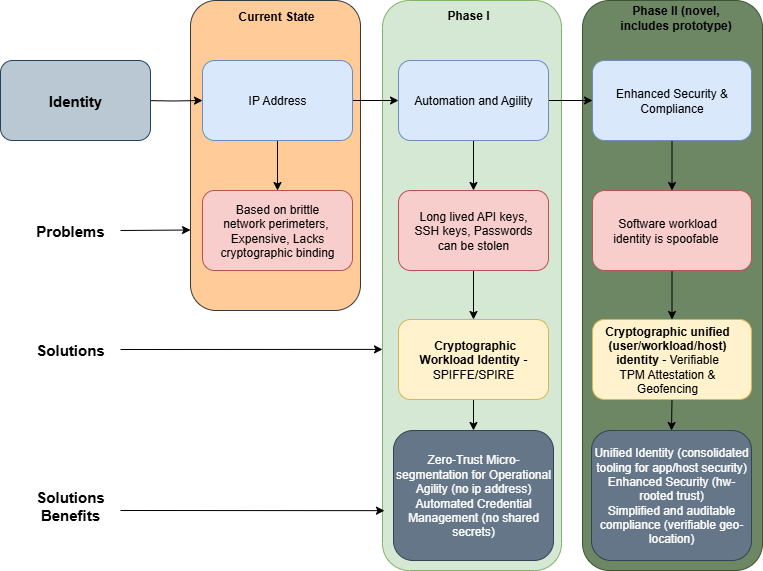
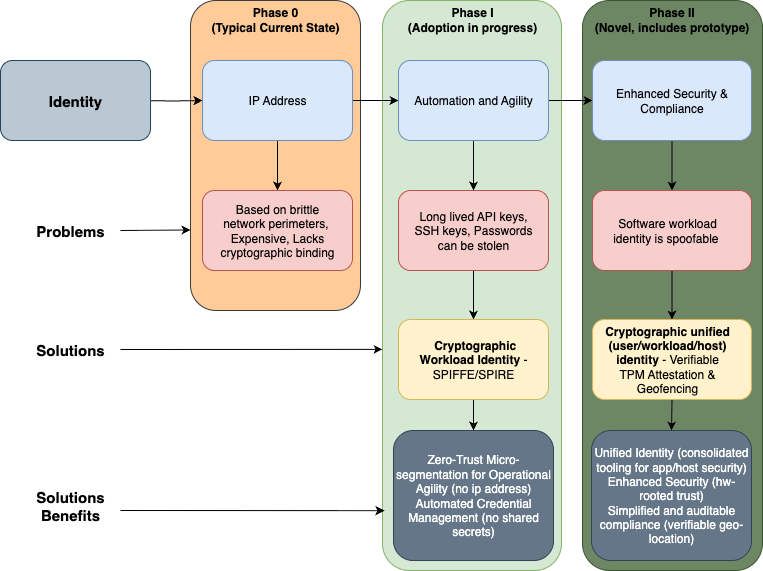
Added proper phases in solution image

diff --git a/blog.md b/blog.md
@@ -6,12 +6,12 @@ For **DevSecOps** (Development, Security, and Operations) practitioners navigati
 
 It's time for a paradigm shift. The answer lies in moving beyond static secrets and network boundaries to verifiable, hardware-rooted identity. This post outlines a modern, two-phase journey to achieve a truly sovereign and automated Zero Trust posture, leveraging open-source technologies and concepts pioneered right here at the Linux Foundation.
 
+## Phased Approach to Sovereign Zero Trust
 <figure>
   <img src="https://github.com/lfedgeai/AegisEdgeAI/raw/main/zero-trust/images/AegisEdgeAI-concept.png" alt="Phased Approach to Sovereign Zero Trust" width="800">
-  <figcaption><em>Phased Approach to Sovereign Zero Trust</em></figcaption>
 </figure>
 
-## The Problem: The IP Address Bottleneck
+## Phase 0: The IP Address Bottleneck
 
 Our current security model, built on IP addresses, creates a triple challenge:
 
